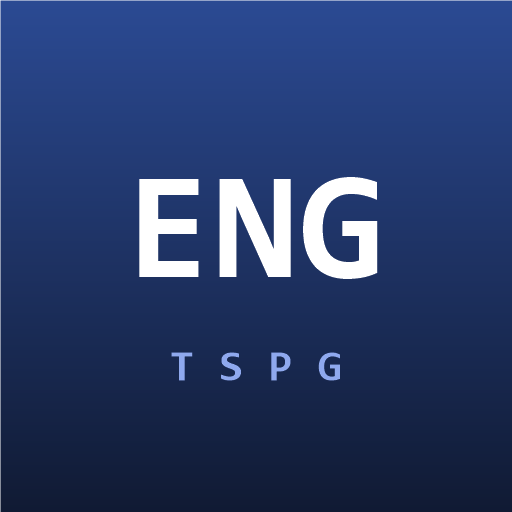
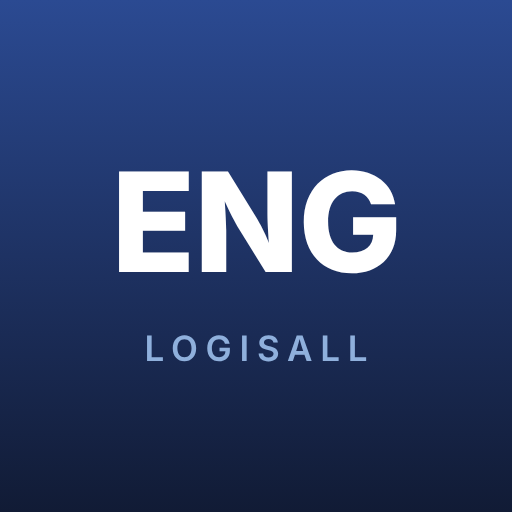
앱 아이콘·앱 이름 TSPG → LOGISALL (b1012.9)
Claude-Session: https://claude.ai/code/session_01AcKz1rdfKWxMnVshrSDRbH

diff --git a/sw.js b/sw.js
@@ -4,7 +4,7 @@
    ★ activate 에서는 자기 접두사(tspg-eng-)로 시작하는 캐시만 정리한다 —
      전체를 지우면 같은 사이트의 다른 앱(eng·eng2 등) 오프라인 캐시까지 날아간다. */
 const PREFIX = "tspg-eng-";
-const CACHE  = PREFIX + "3.0.1012.8";
+const CACHE  = PREFIX + "3.0.1012.9";
 const APP_HTML = "index.html";
 // 원격 사용 중지 (LMS-0517/ENG 배포본에서만 true — 동기화 스크립트가 바꾼다)
 const LIC_ON = true;

diff --git a/index.html b/index.html
@@ -705,7 +705,7 @@ body.fs-lock{overflow:hidden}
   <div class="topbar">
     <div class="brand">
       <span class="logo mono"><b>TSPG</b> · LOGISALL ENG</span>
-      <span class="tag mono" id="buildTag" title="빌드 시각(UTC)">ENG · v3.0 · b1012.8</span>
+      <span class="tag mono" id="buildTag" title="빌드 시각(UTC)">ENG · v3.0 · b1012.9</span>
     </div>
     <div class="prog" id="prog"></div>
   </div>
